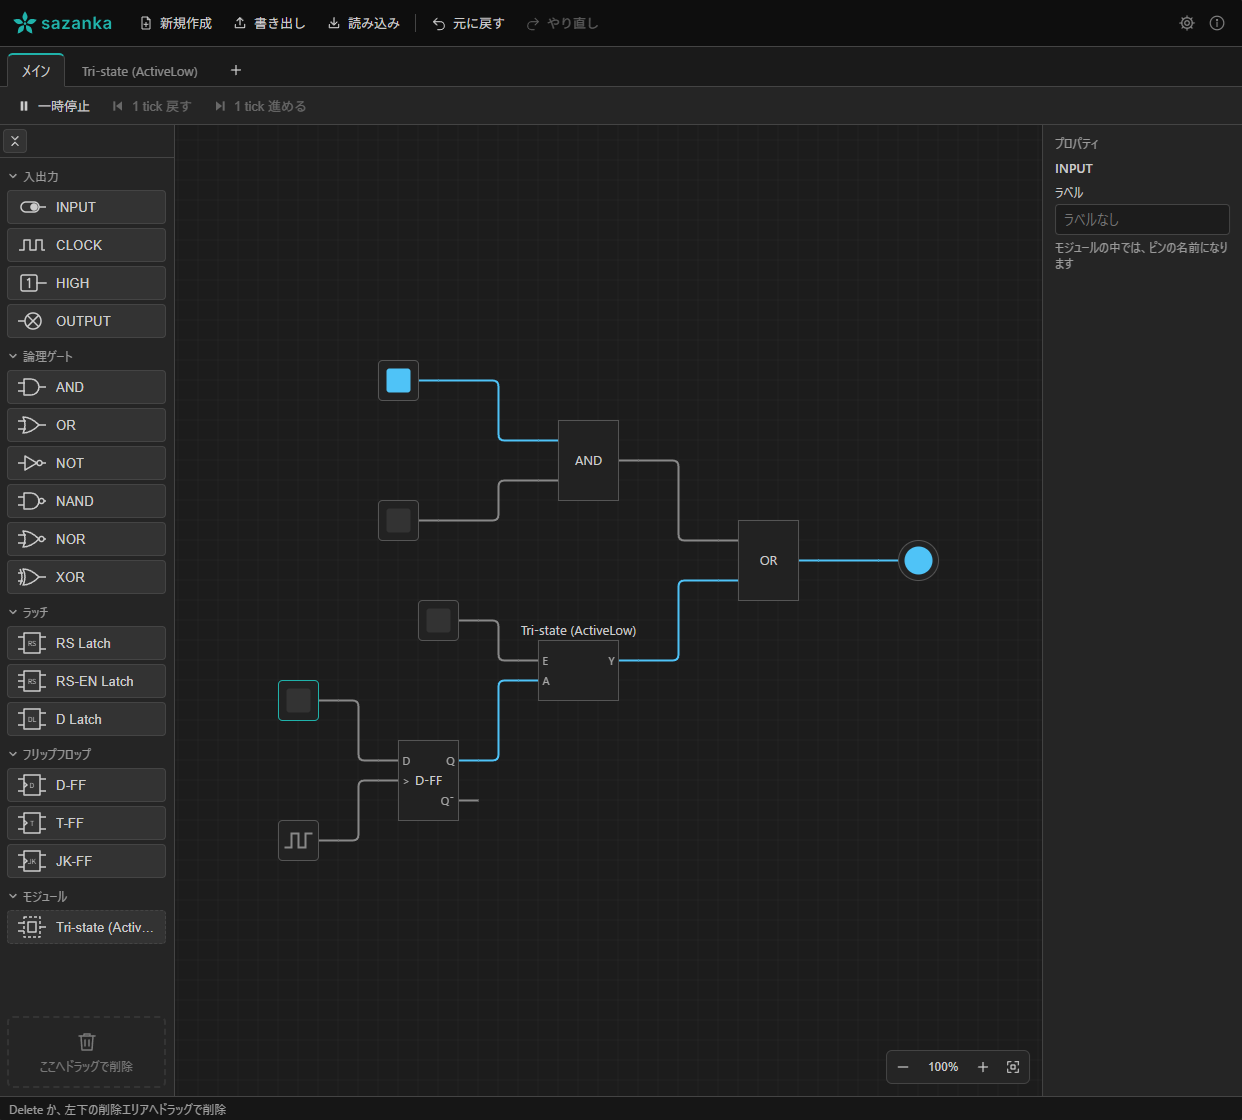
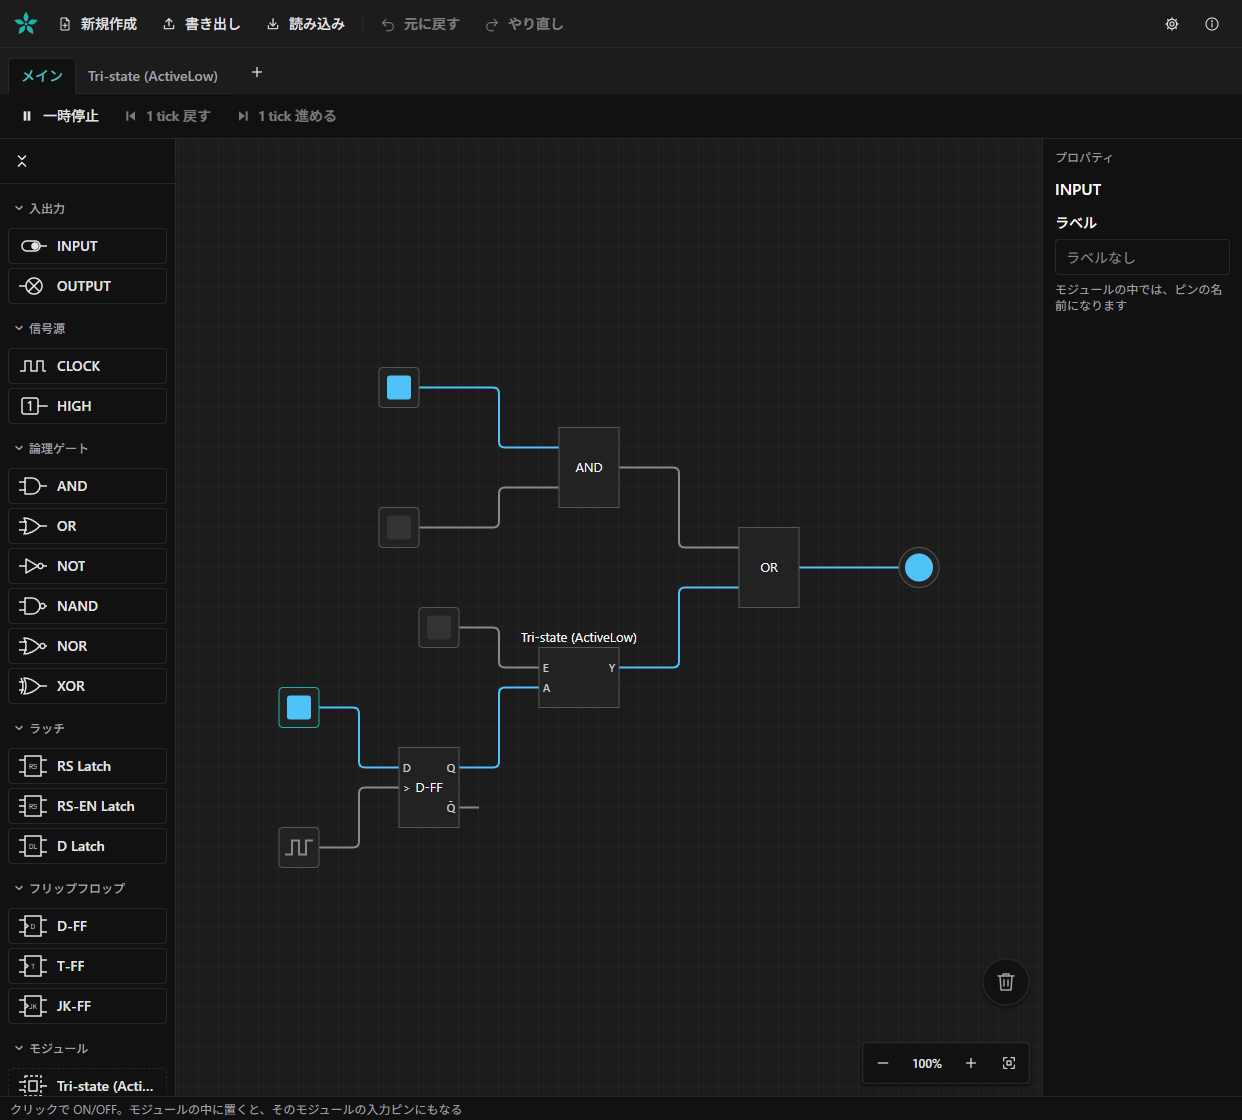
スクリーンショットを更新

diff --git a/docs/agent/screenshot.md b/docs/agent/screenshot.md
@@ -1,0 +1,24 @@
+# README のスクリーンショット
+
+README の `screenshot.png` を撮り直すときの手順と、写す回路。画面の見た目を大きく変えたら撮り直す。撮り方の道具（ヘッドレスブラウザの動かし方）は Skill の `browser-check` と[ブラウザでの動作確認](browser-check.md)にある。
+
+## 撮り方
+
+1. `npx vite build` のあと `npx vite preview --port 5199 --strictPort` で、ビルドしたものを開く（開発用のサーバーでは開発用の表示が混ざることがあるため）。
+2. 画面の大きさを 1242×1120 にする（今の画像と同じ。README での見え方が変わらないように）。
+3. 下の「写す回路」を保存データ（`sazanka.project`）に書き、`sazanka.views`（シートの表示）と `sazanka.paletteCollapsed`（パレットの折り畳み）を消して開き直す。
+4. ズームの「回路全体を表示」を押す（倍率は 100% になる）。
+5. INPUT の ON/OFF は保存データから読まないので、画面でクリックして切り替える。
+   - 左上の INPUT（AND につながる上側）をクリックして ON にする。
+   - 左下の INPUT（D-FF の D につながるもの）をクリックして ON にする。最後にクリックした部品が選ばれた状態になり、プロパティ欄に INPUT の項目が出る。
+6. D-FF が D の ON を取り込むまで（CLOCK の立ち上がりまで）4〜5 秒待つ。取り込むと Tri-state の Y と、右端の OUTPUT が点灯する。
+7. ポインターをシートの何もない所（部品の上でない所）へ動かし、ヒントが落ち着くまで 1〜2 秒待ってから、画面全体を PNG で撮る。
+8. 撮った画像を見て、次を確かめる: OUTPUT が点灯している、左下の INPUT が選ばれている（枠がアクセントカラー）、ツールチップやダイアログが写り込んでいない、エラーがない。
+
+## 写す回路
+
+AND と OR、モジュール（Tri-state）、D-FF と CLOCK を並べ、このアプリでできることが一目で分かるようにしている。座標は、回路全体を表示したときに今の配置になる値。
+
+```json
+{"version": 1, "project": {"circuits": [{"id": "main", "name": "メイン", "components": [{"id": "in1", "kind": "INPUT", "x": 2380, "y": 1860}, {"id": "in2", "kind": "INPUT", "x": 2380, "y": 2000}, {"id": "and", "kind": "AND", "x": 2560, "y": 1920}, {"id": "or", "kind": "OR", "x": 2740, "y": 2020}, {"id": "out", "kind": "OUTPUT", "x": 2900, "y": 2040}, {"id": "in3", "kind": "INPUT", "x": 2420, "y": 2100}, {"id": "tri", "kind": "CUSTOM", "custom": "tri", "x": 2540, "y": 2140}, {"id": "in4", "kind": "INPUT", "x": 2280, "y": 2180}, {"id": "dff", "kind": "DFF", "x": 2400, "y": 2240}, {"id": "clk", "kind": "CLOCK", "x": 2280, "y": 2320, "period": 200}], "wires": [{"id": "w1", "from": {"comp": "in1", "pin": 0}, "to": {"comp": "and", "pin": 0}, "points": []}, {"id": "w2", "from": {"comp": "in2", "pin": 0}, "to": {"comp": "and", "pin": 1}, "points": []}, {"id": "w3", "from": {"comp": "and", "pin": 0}, "to": {"comp": "or", "pin": 0}, "points": []}, {"id": "w4", "from": {"comp": "tri", "pin": 0}, "to": {"comp": "or", "pin": 1}, "points": []}, {"id": "w5", "from": {"comp": "or", "pin": 0}, "to": {"comp": "out", "pin": 0}, "points": []}, {"id": "w6", "from": {"comp": "in3", "pin": 0}, "to": {"comp": "tri", "pin": 0}, "points": []}, {"id": "w7", "from": {"comp": "dff", "pin": 0}, "to": {"comp": "tri", "pin": 1}, "points": []}, {"id": "w8", "from": {"comp": "in4", "pin": 0}, "to": {"comp": "dff", "pin": 0}, "points": []}, {"id": "w9", "from": {"comp": "clk", "pin": 0}, "to": {"comp": "dff", "pin": 1}, "points": []}]}, {"id": "tri", "name": "Tri-state (ActiveLow)", "components": [{"id": "e", "kind": "INPUT", "label": "E", "x": 2300, "y": 1800}, {"id": "a", "kind": "INPUT", "label": "A", "x": 2300, "y": 1900}, {"id": "not", "kind": "NOT", "x": 2420, "y": 1780}, {"id": "and", "kind": "AND", "x": 2560, "y": 1840}, {"id": "y", "kind": "OUTPUT", "label": "Y", "x": 2720, "y": 1860}], "wires": [{"id": "t1", "from": {"comp": "e", "pin": 0}, "to": {"comp": "not", "pin": 0}, "points": []}, {"id": "t2", "from": {"comp": "not", "pin": 0}, "to": {"comp": "and", "pin": 0}, "points": []}, {"id": "t3", "from": {"comp": "a", "pin": 0}, "to": {"comp": "and", "pin": 1}, "points": []}, {"id": "t4", "from": {"comp": "and", "pin": 0}, "to": {"comp": "y", "pin": 0}, "points": []}]}]}}
+```

diff --git a/AGENTS.md b/AGENTS.md
@@ -30,6 +30,7 @@
 | ファイルの分け方、構成の変更           | [コードの置き場所の決め方](docs/agent/code-placement.md) |
 | Skill の追加・編集                     | [Skill の追加・編集](docs/agent/skills.md)               |
 | ブラウザでの動作確認                   | [ブラウザでの動作確認](docs/agent/browser-check.md)      |
+| README のスクリーンショットの撮り直し   | [README のスクリーンショット](docs/agent/screenshot.md)  |
 
 ### 指示と食い違ったら
 
